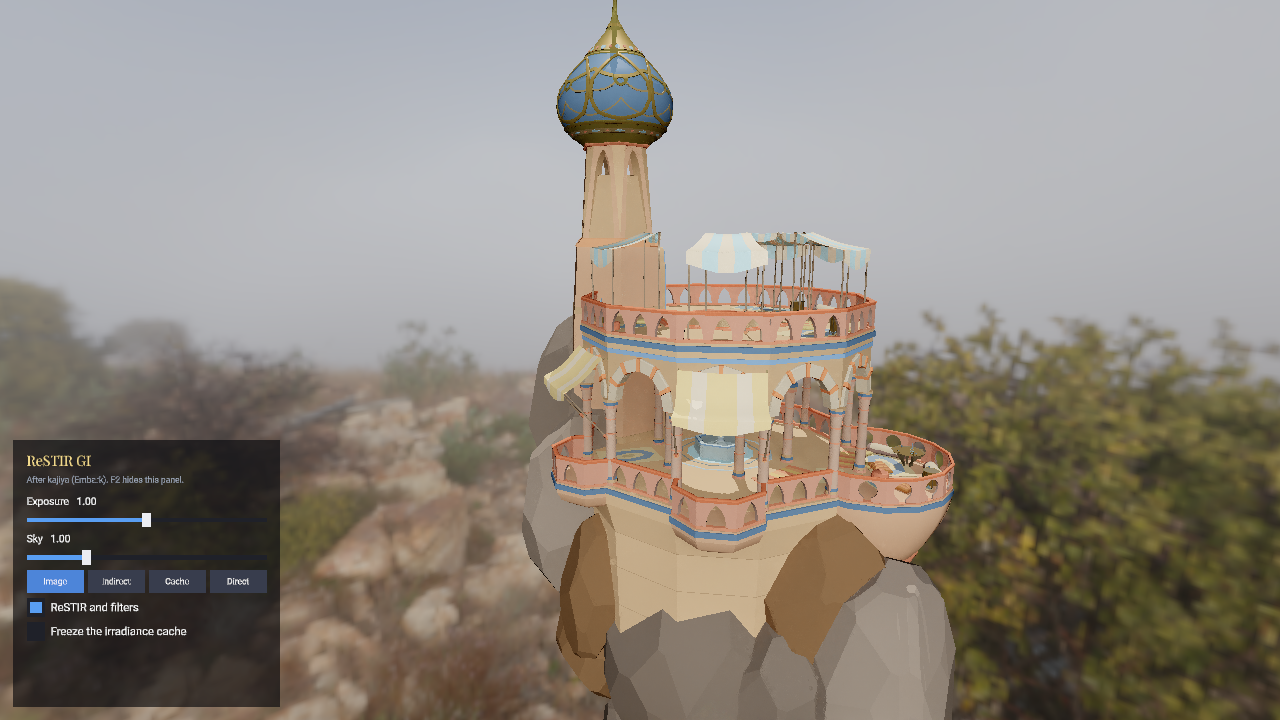
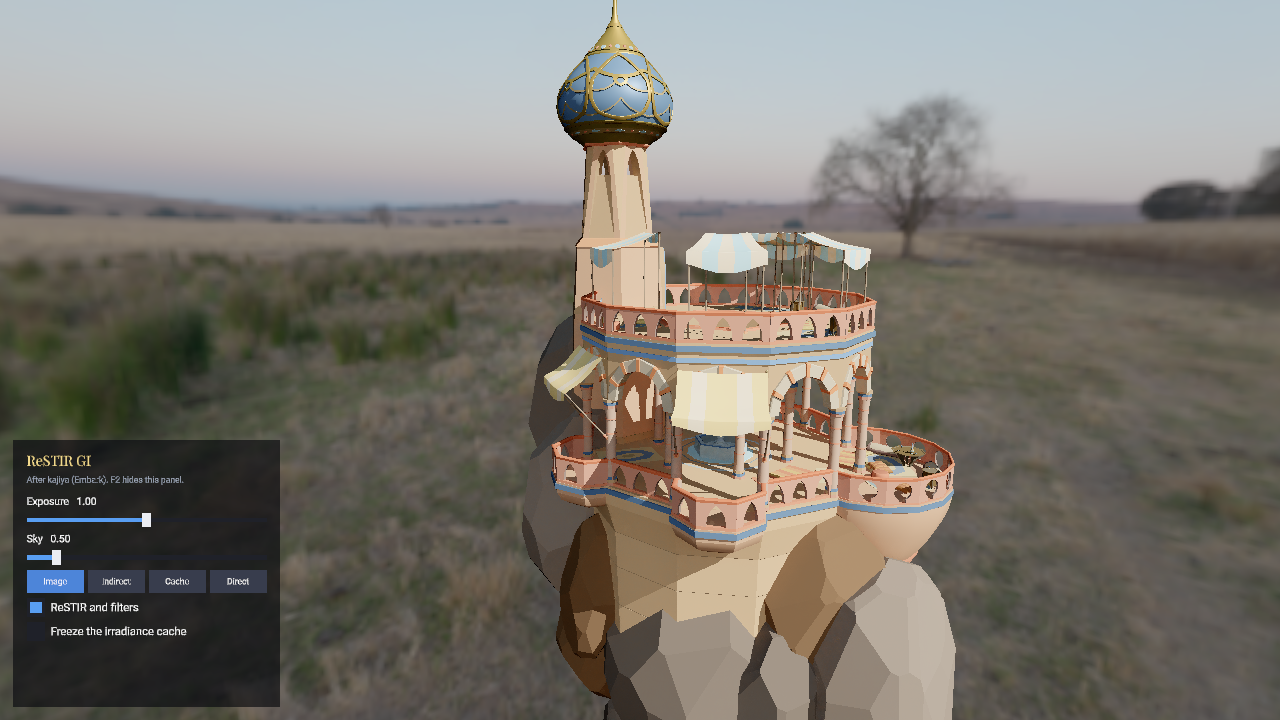
GI examples: a clear sky and a sun from the camera's side
The four GI examples light their scenes with the farm-sunset sky and a sun
of intensity 12. In kajiya's scenes the sun comes from the camera's side,
40 degrees up, and the sky defaults to 0.5; in Sponza it comes down the nave
towards the camera and the sky stays at 1. Docs captures redone.

diff --git a/examples/python/rendering/reference_pt/reference_pt.py b/examples/python/rendering/reference_pt/reference_pt.py
@@ -48,7 +48,7 @@ BOX = "models/Box.gltf"
 
 EYE = (-11.0, 2.0, -0.5)
 TARGET = (8.0, 3.5, 0.5)
-SUN_DIRECTION = (0.3, -1.0, 0.35)
+SUN_DIRECTION = (-0.5, -1.0, 0.05)
 # Two warm lamps in the open nave, clear of the pillars and curtains.
 LAMPS = ((-4.0, 2.2, 1.2), (4.0, 2.2, -1.2))
 # The scenes of Embark's kajiya renderer (python tools/fetch_assets.py kajiya):
@@ -56,11 +56,11 @@ LAMPS = ((-4.0, 2.2, 1.2), (4.0, 2.2, -1.2))
 # target, the sun's direction and the lamps.
 KAJIYA = os.path.join(REPOSITORY, "assets", "kajiya")
 KAJIYA_SCENES = {
-    "viziers": (0.0075, (0.0, -11.25, 0.0), (9.0, 3.0, 9.0), (-1.5, 0.3, 1.0), (0.4, -1.0, 0.3), ()),
-    "gas_stations": (0.005, (-4.5, -1.0, -1.0), (1.0, 0.9, 3.5), (-0.6, 0.1, -0.5), (0.5, -1.0, -0.4), ()),
-    "battle": (0.001875, (11.0, -3.0, -0.75), (7.0, 2.0, 8.0), (0.0, -0.5, 0.0), (0.3, -1.0, 0.5), ()),
-    "warhammer": (0.05, (0.0, 0.0, 0.0), (3.5, 2.2, 4.5), (0.0, 0.2, 0.0), (0.4, -1.0, 0.2), ()),
-    "conference": (1.0, (0.0, 0.0, 0.0), (1.2, 1.6, 0.8), (-4.0, 1.2, -1.5), (0.3, -1.0, 0.35),
+    "viziers": (0.0075, (0.0, -11.25, 0.0), (9.0, 3.0, 9.0), (-1.5, 0.3, 1.0), (-0.76, -0.64, 0.1), ()),
+    "gas_stations": (0.005, (-4.5, -1.0, -1.0), (1.0, 0.9, 3.5), (-0.6, 0.1, -0.5), (-0.7, -0.64, -0.3), ()),
+    "battle": (0.001875, (11.0, -3.0, -0.75), (7.0, 2.0, 8.0), (0.0, -0.5, 0.0), (-0.76, -0.64, -0.05), ()),
+    "warhammer": (0.05, (0.0, 0.0, 0.0), (3.5, 2.2, 4.5), (0.0, 0.2, 0.0), (-0.76, -0.64, -0.1), ()),
+    "conference": (1.0, (0.0, 0.0, 0.0), (1.2, 1.6, 0.8), (-4.0, 1.2, -1.5), (-0.28, -0.64, -0.71),
                    ((-1.0, 1.9, -0.8), (-3.2, 1.9, -0.8))),
 }
 MODES = ("Everything", "Indirect only", "White furnace")
@@ -77,7 +77,8 @@ parser.add_argument("--mode", type=int, choices=(0, 1, 2, 3, 4), default=0,
                     help="0 everything, 1 indirect light only, 2 white furnace, "
                          "3 indirect irradiance (the light reaching each visible surface, over pi), 4 reflections "
                          "(the specular lobe of each visible surface, without the lights' direct light)")
-parser.add_argument("--sky", type=float, default=1.0, help="intensity of the sky's light (both pipelines)")
+parser.add_argument("--sky", type=float, default=None,
+                    help="intensity of the sky's light (both pipelines) (default: 0.5 in kajiya's scenes, 1 in Sponza)")
 parser.add_argument("--exposure", type=float, default=1.0, help="multiplies the image before the tone curve")
 parser.add_argument("--samples", type=int, default=0,
                     help="stop averaging at this many paths per pixel (0: never)")
@@ -89,6 +90,8 @@ parser.add_argument("--settle", type=float, default=3.0,
 parser.add_argument("--width", type=int, default=1600)
 parser.add_argument("--height", type=int, default=900)
 args = parser.parse_args()
+if args.sky is None:
+    args.sky = 0.5 if args.scene in KAJIYA_SCENES else 1.0
 
 PATH_TRACED = args.pipeline == "pt"
 if PATH_TRACED:
@@ -96,7 +99,7 @@ if PATH_TRACED:
 engine = sk.Engine(
     title="Shoonyakasha - Reference path tracer" if PATH_TRACED else "Shoonyakasha - Sponza, default pipeline",
     width=args.width, height=args.height,
-    hdr_environment_path="env/kloofendal_misty_1k.hdr",
+    hdr_environment_path="env/farm_sunset_1k.hdr",
     **({"pipeline_json_path": PIPELINE} if PATH_TRACED else {}),
 )
 
@@ -156,7 +159,7 @@ def build_scene():
         else (EYE, TARGET, SUN_DIRECTION, LAMPS)
     camera = engine.create_camera(pos=eye, fov=60.0, speed=4.0, near_plane=0.05, far_plane=300.0)
     engine.scene.set_rotation(camera, look_rotation(eye, target))
-    sun = engine.create_directional_light(direction=sun_direction, color=(1.0, 0.93, 0.82), intensity=6.0)
+    sun = engine.create_directional_light(direction=sun_direction, color=(1.0, 0.93, 0.82), intensity=12.0)
     engine.scene.set_light_cast_shadows(sun, True)
     engine.set_sun_shadows(cascades=4, max_distance=40.0, split_lambda=0.7, resolution=2048)
     for position in lamps:

diff --git a/examples/python/rendering/rt_reflections/rt_reflections.py b/examples/python/rendering/rt_reflections/rt_reflections.py
@@ -51,18 +51,18 @@ BOX = "models/Box.gltf"
 
 EYE = (-11.0, 2.0, -0.5)
 TARGET = (8.0, 3.5, 0.5)
-SUN_DIRECTION = (0.3, -1.0, 0.35)
+SUN_DIRECTION = (-0.5, -1.0, 0.05)
 LAMPS = ((-4.0, 2.2, 1.2), (4.0, 2.2, -1.2))
 # The scenes of Embark's kajiya renderer (python tools/fetch_assets.py kajiya):
 # the model's scale and offset as kajiya places it, the camera's eye and
 # target, the sun's direction and the lamps.
 KAJIYA = os.path.join(REPOSITORY, "assets", "kajiya")
 KAJIYA_SCENES = {
-    "viziers": (0.0075, (0.0, -11.25, 0.0), (9.0, 3.0, 9.0), (-1.5, 0.3, 1.0), (0.4, -1.0, 0.3), ()),
-    "gas_stations": (0.005, (-4.5, -1.0, -1.0), (1.0, 0.9, 3.5), (-0.6, 0.1, -0.5), (0.5, -1.0, -0.4), ()),
-    "battle": (0.001875, (11.0, -3.0, -0.75), (7.0, 2.0, 8.0), (0.0, -0.5, 0.0), (0.3, -1.0, 0.5), ()),
-    "warhammer": (0.05, (0.0, 0.0, 0.0), (3.5, 2.2, 4.5), (0.0, 0.2, 0.0), (0.4, -1.0, 0.2), ()),
-    "conference": (1.0, (0.0, 0.0, 0.0), (1.2, 1.6, 0.8), (-4.0, 1.2, -1.5), (0.3, -1.0, 0.35),
+    "viziers": (0.0075, (0.0, -11.25, 0.0), (9.0, 3.0, 9.0), (-1.5, 0.3, 1.0), (-0.76, -0.64, 0.1), ()),
+    "gas_stations": (0.005, (-4.5, -1.0, -1.0), (1.0, 0.9, 3.5), (-0.6, 0.1, -0.5), (-0.7, -0.64, -0.3), ()),
+    "battle": (0.001875, (11.0, -3.0, -0.75), (7.0, 2.0, 8.0), (0.0, -0.5, 0.0), (-0.76, -0.64, -0.05), ()),
+    "warhammer": (0.05, (0.0, 0.0, 0.0), (3.5, 2.2, 4.5), (0.0, 0.2, 0.0), (-0.76, -0.64, -0.1), ()),
+    "conference": (1.0, (0.0, 0.0, 0.0), (1.2, 1.6, 0.8), (-4.0, 1.2, -1.5), (-0.28, -0.64, -0.71),
                    ((-1.0, 1.9, -0.8), (-3.2, 1.9, -0.8))),
 }
 VIEWS = ("Image", "Diffuse", "Cache", "Direct", "Reflect")
@@ -80,7 +80,8 @@ parser.add_argument("--stages", type=int, default=ALL_STAGES,
                     help="the stages that run, a sum of: 1 temporal resampling, 2 spatial resampling, "
                          "4 near-field split, 8 temporal filter, 16 spatial filter; for the reflections, 32 temporal "
                          "resampling and validation, 64 filters (default 127)")
-parser.add_argument("--sky", type=float, default=1.0, help="intensity of the sky's light")
+parser.add_argument("--sky", type=float, default=None,
+                    help="intensity of the sky's light (default: 0.5 in kajiya's scenes, 1 in Sponza)")
 parser.add_argument("--exposure", type=float, default=1.0, help="multiplies the image before the tone curve")
 parser.add_argument("--walk", type=float, default=0.0, metavar="SPEED",
                     help="walk the camera along the nave (in kajiya's scenes, level towards what it looks at) "
@@ -90,12 +91,14 @@ parser.add_argument("--screenshot", metavar="FILE", help="save a screenshot afte
 parser.add_argument("--width", type=int, default=1600)
 parser.add_argument("--height", type=int, default=900)
 args = parser.parse_args()
+if args.sky is None:
+    args.sky = 0.5 if args.scene in KAJIYA_SCENES else 1.0
 
 sk.shaders.compile_dir(os.path.join(HERE, "pipeline", "shaders"))
 engine = sk.Engine(
     title="Shoonyakasha - Ray-traced reflections",
     width=args.width, height=args.height,
-    hdr_environment_path="env/kloofendal_misty_1k.hdr",
+    hdr_environment_path="env/farm_sunset_1k.hdr",
     pipeline_json_path=PIPELINE,
 )
 
@@ -166,7 +169,7 @@ def build_scene():
         else (EYE, TARGET, SUN_DIRECTION, LAMPS)
     camera = engine.create_camera(pos=eye, fov=60.0, speed=4.0, near_plane=0.05, far_plane=300.0)
     engine.scene.set_rotation(camera, look_rotation(eye, target))
-    sun = engine.create_directional_light(direction=sun_direction, color=(1.0, 0.93, 0.82), intensity=6.0)
+    sun = engine.create_directional_light(direction=sun_direction, color=(1.0, 0.93, 0.82), intensity=12.0)
     engine.scene.set_light_cast_shadows(sun, True)
     for position in lamps:
         lamp = engine.create_point_light(pos=position, color=(1.0, 0.62, 0.3), intensity=4.0, range=8.0)

diff --git a/examples/python/rendering/restir_gi/restir_gi.py b/examples/python/rendering/restir_gi/restir_gi.py
@@ -50,18 +50,18 @@ BOX = "models/Box.gltf"
 
 EYE = (-11.0, 2.0, -0.5)
 TARGET = (8.0, 3.5, 0.5)
-SUN_DIRECTION = (0.3, -1.0, 0.35)
+SUN_DIRECTION = (-0.5, -1.0, 0.05)
 LAMPS = ((-4.0, 2.2, 1.2), (4.0, 2.2, -1.2))
 # The scenes of Embark's kajiya renderer (python tools/fetch_assets.py kajiya):
 # the model's scale and offset as kajiya places it, the camera's eye and
 # target, the sun's direction and the lamps.
 KAJIYA = os.path.join(REPOSITORY, "assets", "kajiya")
 KAJIYA_SCENES = {
-    "viziers": (0.0075, (0.0, -11.25, 0.0), (9.0, 3.0, 9.0), (-1.5, 0.3, 1.0), (0.4, -1.0, 0.3), ()),
-    "gas_stations": (0.005, (-4.5, -1.0, -1.0), (1.0, 0.9, 3.5), (-0.6, 0.1, -0.5), (0.5, -1.0, -0.4), ()),
-    "battle": (0.001875, (11.0, -3.0, -0.75), (7.0, 2.0, 8.0), (0.0, -0.5, 0.0), (0.3, -1.0, 0.5), ()),
-    "warhammer": (0.05, (0.0, 0.0, 0.0), (3.5, 2.2, 4.5), (0.0, 0.2, 0.0), (0.4, -1.0, 0.2), ()),
-    "conference": (1.0, (0.0, 0.0, 0.0), (1.2, 1.6, 0.8), (-4.0, 1.2, -1.5), (0.3, -1.0, 0.35),
+    "viziers": (0.0075, (0.0, -11.25, 0.0), (9.0, 3.0, 9.0), (-1.5, 0.3, 1.0), (-0.76, -0.64, 0.1), ()),
+    "gas_stations": (0.005, (-4.5, -1.0, -1.0), (1.0, 0.9, 3.5), (-0.6, 0.1, -0.5), (-0.7, -0.64, -0.3), ()),
+    "battle": (0.001875, (11.0, -3.0, -0.75), (7.0, 2.0, 8.0), (0.0, -0.5, 0.0), (-0.76, -0.64, -0.05), ()),
+    "warhammer": (0.05, (0.0, 0.0, 0.0), (3.5, 2.2, 4.5), (0.0, 0.2, 0.0), (-0.76, -0.64, -0.1), ()),
+    "conference": (1.0, (0.0, 0.0, 0.0), (1.2, 1.6, 0.8), (-4.0, 1.2, -1.5), (-0.28, -0.64, -0.71),
                    ((-1.0, 1.9, -0.8), (-3.2, 1.9, -0.8))),
 }
 VIEWS = ("Image", "Indirect", "Cache", "Direct")
@@ -77,7 +77,8 @@ parser.add_argument("--view", type=int, choices=(0, 1, 2, 3), default=0,
 parser.add_argument("--stages", type=int, default=ALL_STAGES,
                     help="the stages that run, a sum of: 1 temporal resampling, 2 spatial resampling, "
                          "4 near-field split, 8 temporal filter, 16 spatial filter (default 31; 0: raw candidates)")
-parser.add_argument("--sky", type=float, default=1.0, help="intensity of the sky's light")
+parser.add_argument("--sky", type=float, default=None,
+                    help="intensity of the sky's light (default: 0.5 in kajiya's scenes, 1 in Sponza)")
 parser.add_argument("--walk", type=float, default=0.0, metavar="SPEED",
                     help="walk the camera along the nave (in kajiya's scenes, level towards what it looks at) "
                          "at SPEED metres a second")
@@ -86,12 +87,14 @@ parser.add_argument("--screenshot", metavar="FILE", help="save a screenshot afte
 parser.add_argument("--width", type=int, default=1600)
 parser.add_argument("--height", type=int, default=900)
 args = parser.parse_args()
+if args.sky is None:
+    args.sky = 0.5 if args.scene in KAJIYA_SCENES else 1.0
 
 sk.shaders.compile_dir(os.path.join(HERE, "pipeline", "shaders"))
 engine = sk.Engine(
     title="Shoonyakasha - ReSTIR GI",
     width=args.width, height=args.height,
-    hdr_environment_path="env/kloofendal_misty_1k.hdr",
+    hdr_environment_path="env/farm_sunset_1k.hdr",
     pipeline_json_path=PIPELINE,
 )
 
@@ -162,7 +165,7 @@ def build_scene():
         else (EYE, TARGET, SUN_DIRECTION, LAMPS)
     camera = engine.create_camera(pos=eye, fov=60.0, speed=4.0, near_plane=0.05, far_plane=300.0)
     engine.scene.set_rotation(camera, look_rotation(eye, target))
-    sun = engine.create_directional_light(direction=sun_direction, color=(1.0, 0.93, 0.82), intensity=6.0)
+    sun = engine.create_directional_light(direction=sun_direction, color=(1.0, 0.93, 0.82), intensity=12.0)
     engine.scene.set_light_cast_shadows(sun, True)
     for position in lamps:
         lamp = engine.create_point_light(pos=position, color=(1.0, 0.62, 0.3), intensity=4.0, range=8.0)

diff --git a/examples/python/rendering/irradiance_cache/irradiance_cache.py b/examples/python/rendering/irradiance_cache/irradiance_cache.py
@@ -48,18 +48,18 @@ BOX = "models/Box.gltf"
 
 EYE = (-11.0, 2.0, -0.5)
 TARGET = (8.0, 3.5, 0.5)
-SUN_DIRECTION = (0.3, -1.0, 0.35)
+SUN_DIRECTION = (-0.5, -1.0, 0.05)
 LAMPS = ((-4.0, 2.2, 1.2), (4.0, 2.2, -1.2))
 # The scenes of Embark's kajiya renderer (python tools/fetch_assets.py kajiya):
 # the model's scale and offset as kajiya places it, the camera's eye and
 # target, the sun's direction and the lamps.
 KAJIYA = os.path.join(REPOSITORY, "assets", "kajiya")
 KAJIYA_SCENES = {
-    "viziers": (0.0075, (0.0, -11.25, 0.0), (9.0, 3.0, 9.0), (-1.5, 0.3, 1.0), (0.4, -1.0, 0.3), ()),
-    "gas_stations": (0.005, (-4.5, -1.0, -1.0), (1.0, 0.9, 3.5), (-0.6, 0.1, -0.5), (0.5, -1.0, -0.4), ()),
-    "battle": (0.001875, (11.0, -3.0, -0.75), (7.0, 2.0, 8.0), (0.0, -0.5, 0.0), (0.3, -1.0, 0.5), ()),
-    "warhammer": (0.05, (0.0, 0.0, 0.0), (3.5, 2.2, 4.5), (0.0, 0.2, 0.0), (0.4, -1.0, 0.2), ()),
-    "conference": (1.0, (0.0, 0.0, 0.0), (1.2, 1.6, 0.8), (-4.0, 1.2, -1.5), (0.3, -1.0, 0.35),
+    "viziers": (0.0075, (0.0, -11.25, 0.0), (9.0, 3.0, 9.0), (-1.5, 0.3, 1.0), (-0.76, -0.64, 0.1), ()),
+    "gas_stations": (0.005, (-4.5, -1.0, -1.0), (1.0, 0.9, 3.5), (-0.6, 0.1, -0.5), (-0.7, -0.64, -0.3), ()),
+    "battle": (0.001875, (11.0, -3.0, -0.75), (7.0, 2.0, 8.0), (0.0, -0.5, 0.0), (-0.76, -0.64, -0.05), ()),
+    "warhammer": (0.05, (0.0, 0.0, 0.0), (3.5, 2.2, 4.5), (0.0, 0.2, 0.0), (-0.76, -0.64, -0.1), ()),
+    "conference": (1.0, (0.0, 0.0, 0.0), (1.2, 1.6, 0.8), (-4.0, 1.2, -1.5), (-0.28, -0.64, -0.71),
                    ((-1.0, 1.9, -0.8), (-3.2, 1.9, -0.8))),
 }
 VIEWS = ("Image", "Cache", "Entries", "Direct")
@@ -71,7 +71,8 @@ parser.add_argument("--scene", choices=("sponza", "colonnade") + tuple(KAJIYA_SC
                          "scenes (python tools/fetch_assets.py kajiya)")
 parser.add_argument("--view", type=int, choices=(0, 1, 2, 3), default=0,
                     help="0 image, 1 the cache alone, 2 its entries, 3 direct light only")
-parser.add_argument("--sky", type=float, default=1.0, help="intensity of the sky's light")
+parser.add_argument("--sky", type=float, default=None,
+                    help="intensity of the sky's light (default: 0.5 in kajiya's scenes, 1 in Sponza)")
 parser.add_argument("--walk", type=float, default=0.0, metavar="SPEED",
                     help="walk the camera along the nave (in kajiya's scenes, level towards what it looks at) "
                          "at SPEED metres a second")
@@ -80,12 +81,14 @@ parser.add_argument("--screenshot", metavar="FILE", help="save a screenshot afte
 parser.add_argument("--width", type=int, default=1600)
 parser.add_argument("--height", type=int, default=900)
 args = parser.parse_args()
+if args.sky is None:
+    args.sky = 0.5 if args.scene in KAJIYA_SCENES else 1.0
 
 sk.shaders.compile_dir(os.path.join(HERE, "pipeline", "shaders"))
 engine = sk.Engine(
     title="Shoonyakasha - Irradiance cache",
     width=args.width, height=args.height,
-    hdr_environment_path="env/kloofendal_misty_1k.hdr",
+    hdr_environment_path="env/farm_sunset_1k.hdr",
     pipeline_json_path=PIPELINE,
 )
 
@@ -156,7 +159,7 @@ def build_scene():
         else (EYE, TARGET, SUN_DIRECTION, LAMPS)
     camera = engine.create_camera(pos=eye, fov=60.0, speed=4.0, near_plane=0.05, far_plane=300.0)
     engine.scene.set_rotation(camera, look_rotation(eye, target))
-    sun = engine.create_directional_light(direction=sun_direction, color=(1.0, 0.93, 0.82), intensity=6.0)
+    sun = engine.create_directional_light(direction=sun_direction, color=(1.0, 0.93, 0.82), intensity=12.0)
     engine.scene.set_light_cast_shadows(sun, True)
     for position in lamps:
         lamp = engine.create_point_light(pos=position, color=(1.0, 0.62, 0.3), intensity=4.0, range=8.0)

diff --git a/examples/python/rendering/rt_reflections/README.md b/examples/python/rendering/rt_reflections/README.md
@@ -72,7 +72,7 @@ The panel shows the GPU time and sets the exposure, the sky's intensity, the vie
 | `--scene NAME` | `sponza` | `sponza`, `colonnade`, or one of kajiya's scenes: `viziers`, `gas_stations`, `battle`, `warhammer`, `conference` |
 | `--view 0` to `4` | 0 | Image, indirect diffuse light, irradiance cache, direct light, reflections |
 | `--stages N` | 127 | The stages that run, a sum of: for the diffuse light 1 temporal resampling, 2 spatial resampling, 4 near-field split, 8 temporal filter, 16 spatial filter; for the reflections 32 temporal resampling and validation, 64 the temporal filter and cleanup |
-| `--sky X` | 1.0 | Intensity of the sky's light |
+| `--sky X` | 0.5 in kajiya's scenes, 1.0 in Sponza | Intensity of the sky's light |
 | `--exposure X` | 1.0 | Multiplies the image before the tone curve |
 | `--walk SPEED` | 0 | Walk the camera along the nave at SPEED metres a second; in kajiya's scenes, level towards what it looks at |
 | `--frames N` | 300 | Frames before `--screenshot` |

diff --git a/examples/python/rendering/restir_gi/README.md b/examples/python/rendering/restir_gi/README.md
@@ -81,7 +81,7 @@ The panel shows the GPU time and sets the exposure, the sky's intensity, the vie
 | `--scene NAME` | `sponza` | `sponza`, `colonnade`, or one of kajiya's scenes: `viziers`, `gas_stations`, `battle`, `warhammer`, `conference` |
 | `--view 0` / `1` / `2` / `3` | 0 | Image, indirect light, irradiance cache, direct light only |
 | `--stages N` | 31 | The stages that run, a sum of: 1 temporal resampling, 2 spatial resampling, 4 near-field split, 8 temporal filter, 16 spatial filter |
-| `--sky X` | 1.0 | Intensity of the sky's light |
+| `--sky X` | 0.5 in kajiya's scenes, 1.0 in Sponza | Intensity of the sky's light |
 | `--walk SPEED` | 0 | Walk the camera along the nave at SPEED metres a second; in kajiya's scenes, level towards what it looks at |
 | `--frames N` | 300 | Frames before `--screenshot` |
 | `--screenshot FILE` | | Save after `--frames` frames, print the GPU time, quit |

diff --git a/examples/python/rendering/reference_pt/README.md b/examples/python/rendering/reference_pt/README.md
@@ -56,7 +56,7 @@ The views:
 | `--scene NAME` | `sponza` | `sponza`, `colonnade`, or one of kajiya's scenes: `viziers`, `gas_stations`, `battle`, `warhammer`, `conference` |
 | `--bounces N` | 8 | Bounces after the first hit, 1 to 16; 1 is direct light only |
 | `--mode 0` to `4` | 0 | Everything, indirect only, white furnace, indirect irradiance, reflections |
-| `--sky X` | 1.0 | Intensity of the sky's light, on both pipelines |
+| `--sky X` | 0.5 in kajiya's scenes, 1.0 in Sponza | Intensity of the sky's light, on both pipelines |
 | `--exposure X` | 1.0 | Multiplies the image before the tone curve, on both pipelines |
 | `--samples N` | 0 | Paths per pixel to stop at; 0 never stops |
 | `--screenshot FILE` | | Save once `--samples` paths are in, or after `--settle` seconds without `--samples`, then quit |

diff --git a/examples/python/rendering/irradiance_cache/README.md b/examples/python/rendering/irradiance_cache/README.md
@@ -66,7 +66,7 @@ The panel shows the GPU time and sets the exposure, the sky's intensity, the vie
 |---|---|---|
 | `--scene NAME` | `sponza` | `sponza`, `colonnade`, or one of kajiya's scenes: `viziers`, `gas_stations`, `battle`, `warhammer`, `conference` |
 | `--view 0` / `1` / `2` / `3` | 0 | Image, cache, entries, direct light only |
-| `--sky X` | 1.0 | Intensity of the sky's light |
+| `--sky X` | 0.5 in kajiya's scenes, 1.0 in Sponza | Intensity of the sky's light |
 | `--walk SPEED` | 0 | Walk the camera along the nave at SPEED metres a second; in kajiya's scenes, level towards what it looks at |
 | `--frames N` | 300 | Frames before `--screenshot` |
 | `--screenshot FILE` | | Save after `--frames` frames, print the GPU time, quit |
